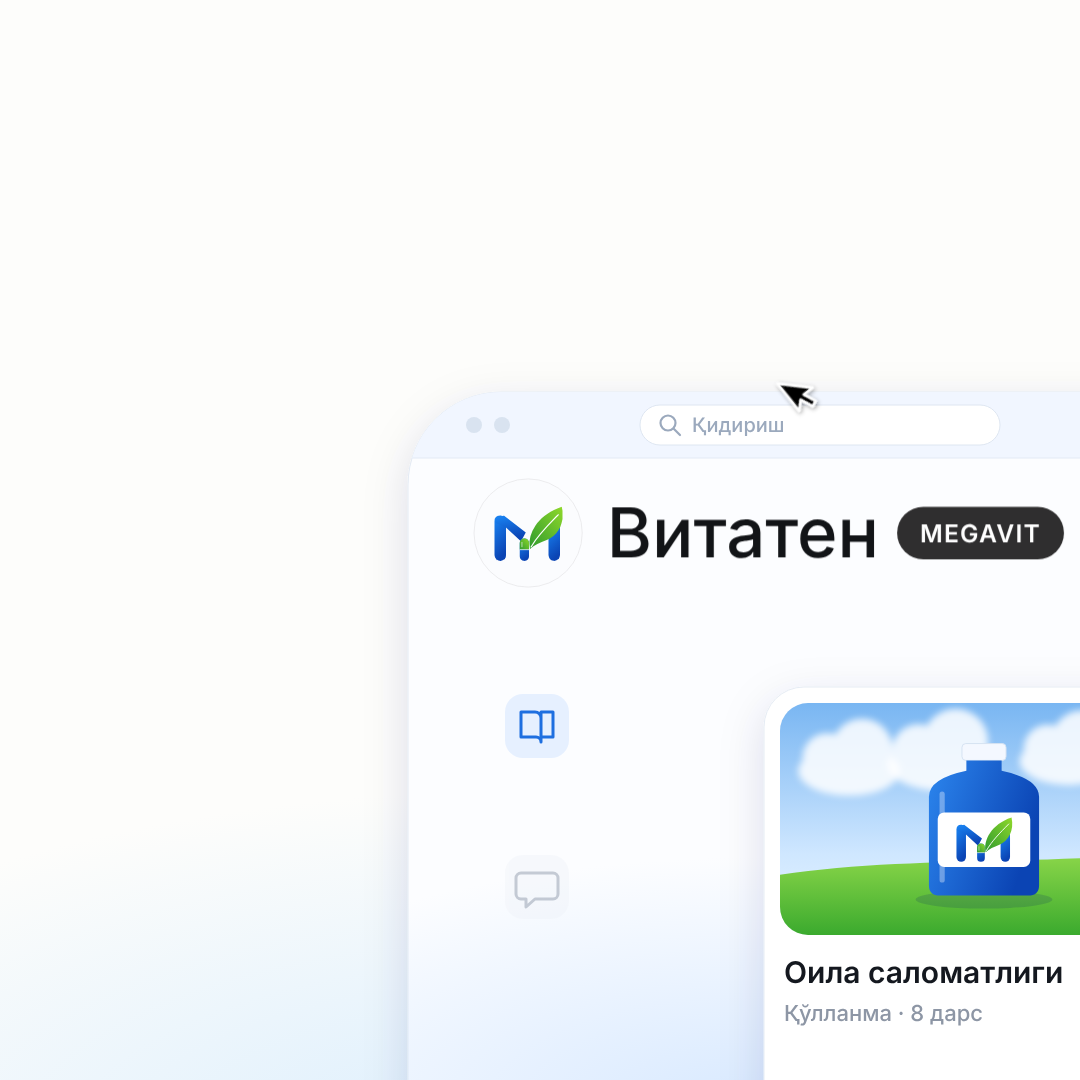
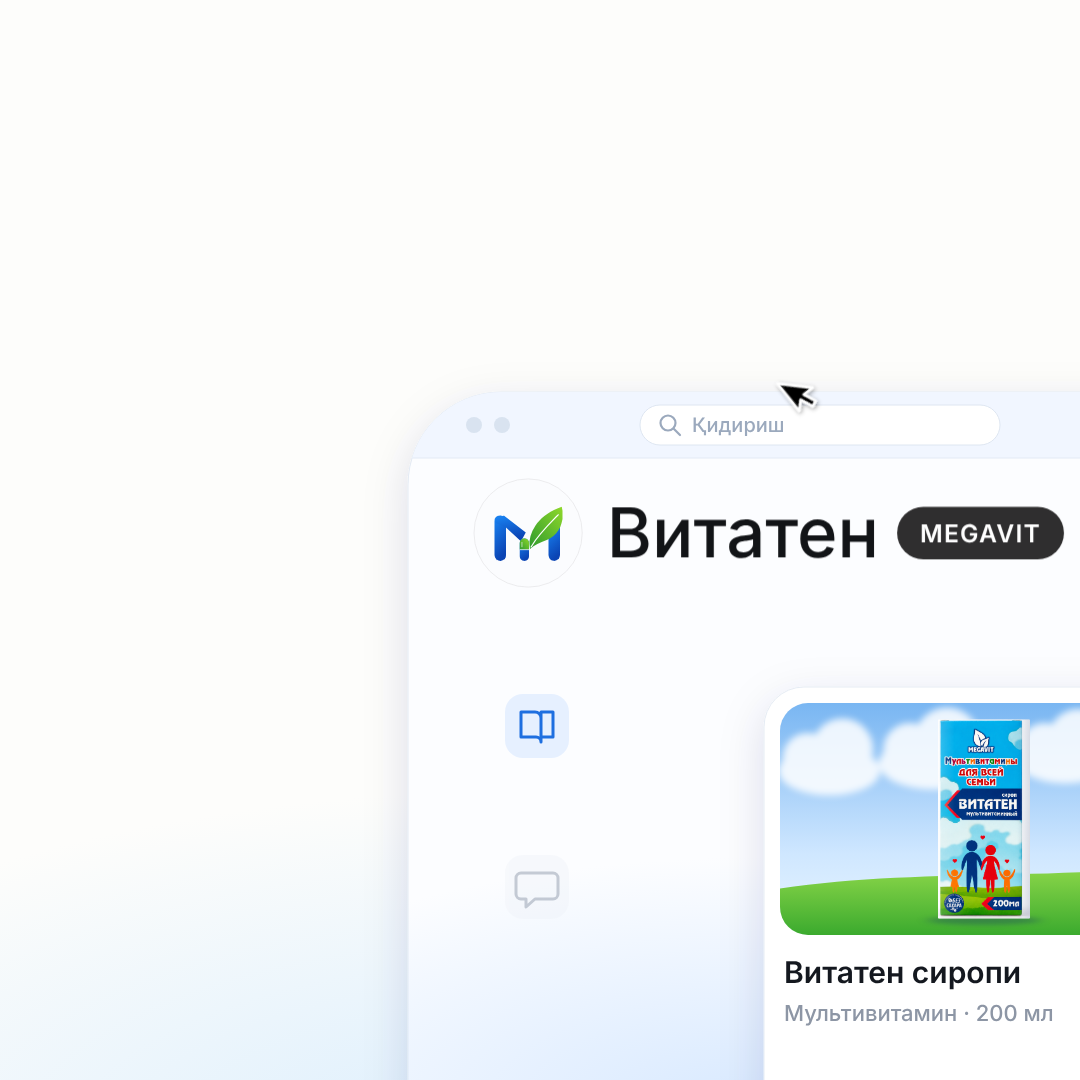
Feature the real Vitaten box in the hub card, rising card and hero hold; add tagline to end card
Claude-Session: https://claude.ai/code/session_01Ek9HUE8cXQas236DtqeRgc

Changed region(s): [[0.7028, 0.6417, 1.0, 0.8556], [0.7333, 0.8861, 1.0, 0.9472], [0.9778, 0.6417, 1.0, 0.6722]]

diff --git a/vitaten/film.js b/vitaten/film.js
@@ -6,17 +6,18 @@ const T = {
   name: 'Витатен',
   pill: 'MEGAVIT',
   search: 'Қидириш',
-  courseTitle: 'Оила саломатлиги',
-  courseSub: 'Қўлланма · 8 дарс',
+  courseTitle: 'Витатен сиропи',
+  courseSub: 'Мультивитамин · 200 мл',
   prompt: 'Болам учун витамин тавсия қил',
   date: 'Душ 22 июн  9:41',
-  crumb: 'Оила саломатлиги  ›  2-бўлим',
-  title: '2.1 Витатен — бутун оила учун',
+  crumb: 'Мегавит  ›  Сироплар',
+  title: 'Витатен — бутун оила учун',
   bodyA: 'Витатен — шакарсиз мультивитаминли сироп. Болалар ва катталар учун кунлик витаминлар',
   key: 'бир қошиқда.',
-  bodyB: 'Кунига бир марта, овқатдан кейин. 3 ёшдан катта болалар ва катталар учун.',
+  bodyB: 'Шакарсиз, 200 мл. Кунига бир марта, овқатдан кейин — болалар ва катталар учун.',
   cardCap: 'Витатен сиропи',
-  cardSub: 'Шакарсиз · 200 мл · бутун оила учун',
+  cardSub: 'Мультивитаминли · шакарсиз · 200 мл',
+  tagline: 'мультивитаминли сироп',
   c1: 'Иммунитет', c1pill: 'Витамин C',
   c2: 'Энергия', c2pill: 'Витамин B',
   site: 'aksonmegavit.uz',
@@ -157,20 +158,24 @@ const txt = (x, y, s, wt, size, fill, extra = '') => `<text x="${n2(x)}" y="${n2
 function cloud(cx, cy, s, op) {
   return `<g opacity="${op}"><ellipse cx="${cx}" cy="${cy}" rx="${70 * s}" ry="${34 * s}" fill="#fff"/><circle cx="${cx - 30 * s}" cy="${cy - 18 * s}" r="${34 * s}" fill="#fff"/><circle cx="${cx + 18 * s}" cy="${cy - 30 * s}" r="${42 * s}" fill="#fff"/></g>`;
 }
-// family/vitamin art: sky, clouds, hill, a glass syrup bottle with the mark on a blank label
-function artVitaten(x, y, w, h) {
+// the real Vitaten box (photo, 579x1254), standing at bottom-centre bx,by with height h
+const BOX_AR = 579 / 1254;
+function box(bx, by, h, shadow = true) {
+  const w = h * BOX_AR, x = bx - w / 2, y = by - h;
+  return `${shadow ? `<g ${blur(h * 0.03, h * 0.012)}><ellipse cx="${n2(bx)}" cy="${n2(by + h * 0.008)}" rx="${n2(w * 0.62)}" ry="${n2(h * 0.022)}" fill="#0B2A66" opacity=".32"/></g>` : ''}
+<g ${clip(`<rect x="${n2(x)}" y="${n2(y)}" width="${n2(w)}" height="${n2(h)}" rx="${n2(h * 0.006)}"/>`)}>
+<image href="box.png" x="${n2(x)}" y="${n2(y)}" width="${n2(w)}" height="${n2(h)}" preserveAspectRatio="none"/>
+<rect x="${n2(x)}" y="${n2(y)}" width="${n2(w)}" height="${n2(h)}" fill="${grad([[0, '#FFFFFF', 0.22], [0.18, '#FFFFFF', 0], [0.86, '#0B2A66', 0], [1, '#0B2A66', 0.16]], 0, 0, 1, 0)}"/>
+</g>`;
+}
+// product hero art: sky, clouds, hill and the box standing on it
+function artBox(x, y, w, h) {
   const s = w / 627;
-  const clouds = [0, 1, 2, 3].map(i => cloud(x + w * (0.12 + 0.27 * i + 0.06 * hash(i)), y + h * (0.16 + 0.14 * hash(i + 9)), s * (0.8 + 0.5 * hash(i + 3)), 0.85)).join('');
-  const bx = x + w * 0.5, by = y + h * 0.27, bw = w * 0.27, bh = h * 0.56;
+  const clouds = [0, 1, 2, 3].map(i => cloud(x + w * (0.08 + 0.29 * i + 0.05 * hash(i)), y + h * (0.14 + 0.16 * hash(i + 9)), s * (0.8 + 0.5 * hash(i + 3)), 0.85)).join('');
   return `<rect x="${x}" y="${y}" width="${w}" height="${h}" fill="${grad([[0, '#79B6F2'], [0.65, '#CFE7FF'], [1, '#E9F5FF']])}"/>
 <g ${blur(6 * s)}>${clouds}</g>
-<path d="M${x},${y + h * 0.74} C${x + w * 0.3},${y + h * 0.66} ${x + w * 0.62},${y + h * 0.7} ${x + w},${y + h * 0.64} L${x + w},${y + h} L${x},${y + h} Z" fill="${grad([[0, '#8ED84A'], [1, '#3BAA2E']])}"/>
-<ellipse cx="${bx}" cy="${by + bh + 6 * s}" rx="${bw * 0.62}" ry="${14 * s}" fill="#0B2A66" opacity=".18"/>
-<rect x="${bx - bw * 0.2}" y="${by - bh * 0.17}" width="${bw * 0.4}" height="${bh * 0.13}" rx="${6 * s}" fill="#F4F8FF" stroke="#D5E2F2" stroke-width="${1.5 * s}"/>
-<path d="M${bx - bw * 0.16},${by - bh * 0.04} L${bx + bw * 0.16},${by - bh * 0.04} L${bx + bw * 0.16},${by + bh * 0.04} Q${bx + bw * 0.5},${by + bh * 0.1} ${bx + bw * 0.5},${by + bh * 0.24} L${bx + bw * 0.5},${by + bh * 0.92} Q${bx + bw * 0.5},${by + bh} ${bx + bw * 0.4},${by + bh} L${bx - bw * 0.4},${by + bh} Q${bx - bw * 0.5},${by + bh} ${bx - bw * 0.5},${by + bh * 0.92} L${bx - bw * 0.5},${by + bh * 0.24} Q${bx - bw * 0.5},${by + bh * 0.1} ${bx - bw * 0.16},${by + bh * 0.04} Z" fill="${grad([[0, '#2C86EE'], [1, '#0B44B4']], 0, 0, 1, 0.4)}"/>
-<rect x="${bx - bw * 0.42}" y="${by + bh * 0.36}" width="${bw * 0.84}" height="${bh * 0.42}" rx="${10 * s}" fill="#FFFFFF"/>
-${mark(bx, by + bh * 0.57, bw * 0.5)}
-<path d="M${bx - bw * 0.38},${by + bh * 0.22} L${bx - bw * 0.38},${by + bh * 0.88}" stroke="#fff" stroke-opacity=".35" stroke-width="${8 * s}" stroke-linecap="round"/>`;
+<path d="M${x},${y + h * 0.8} C${x + w * 0.3},${y + h * 0.72} ${x + w * 0.62},${y + h * 0.76} ${x + w},${y + h * 0.7} L${x + w},${y + h} L${x},${y + h} Z" fill="${grad([[0, '#8ED84A'], [1, '#3BAA2E']])}"/>
+${box(x + w * 0.5, y + h * 0.93, h * 0.86)}`;
 }
 function artImmun(x, y, w, h) {
   const balls = [[0.2, 0.3, 0.2, C.lblue], [0.72, 0.26, 0.26, '#FFFFFF'], [0.52, 0.62, 0.17, C.lgreen], [0.88, 0.7, 0.12, C.lblue], [0.1, 0.78, 0.13, '#9CD3FF'], [0.38, 0.12, 0.08, C.lgreen]];
@@ -261,7 +266,7 @@ ${txt(692, 445, T.search, 500, 20, '#9BA9BD')}
 <g opacity=".38"><rect x="505" y="868" width="64" height="64" rx="18" fill="#EEF2F8"/>
 <path d="M521,886 h32 a5,5 0 0 1 5,5 v16 a5,5 0 0 1 -5,5 h-18 l-9,8 v-8 h-5 a5,5 0 0 1 -5,-5 v-16 a5,5 0 0 1 5,-5 z" fill="none" stroke="#6C7A90" stroke-width="3" stroke-linejoin="round"/></g>
 <rect x="764" y="700" width="440" height="560" rx="40" fill="#FFFFFF" stroke="#E6ECF4" filter="url(#softShadow)"/>
-<g ${clip(`<rect x="780" y="716" width="408" height="232" rx="28"/>`)}>${artVitaten(780, 716, 408, 232)}</g>
+<g ${clip(`<rect x="780" y="716" width="408" height="232" rx="28"/>`)}>${artBox(780, 716, 408, 232)}</g>
 ${txt(784, 996, T.courseTitle, 600, 30, '#14181F')}
 ${txt(784, 1034, T.courseSub, 500, 22, '#8D96A5')}
 </g></g>`;
@@ -502,7 +507,7 @@ const S5 = {
     const card = `<g transform="translate(${cx},${n2(cyc)}) scale(${n2(sc)}) translate(${-cx},${n2(-cyc)})">
 <rect x="203" y="${n2(cardTop)}" width="675" height="1100" rx="88" fill="#FFFFFF" filter="url(#softShadow)"/>
 <rect x="504" y="${n2(cardTop + 15)}" width="72" height="9" rx="4.5" fill="#E2E5EA"/>
-<g ${clip(`<rect x="227" y="${n2(top)}" width="627" height="536" rx="64"/>`)}>${artVitaten(227, top, 627, 536)}</g>
+<g ${clip(`<rect x="227" y="${n2(top)}" width="627" height="536" rx="64"/>`)}>${artBox(227, top, 627, 536)}</g>
 ${txt(251, top + 536 + 62, T.cardCap, 600, 38, '#0E0F11')}
 ${txt(251, top + 536 + 100, T.cardSub, 500, 23, '#9AA0AA')}
 </g>`;
@@ -558,7 +563,7 @@ const S6 = {
 };
 
 // ======================================================================
-// S7 f245–300  lone logo disc
+// S7 f245–300  product hero: the Vitaten box (held still f269–287)
 // ======================================================================
 const DT7 = mono([[245, 569], [250, 491], [255, 468], [262, 459], [269, 456]]);
 const S7 = {
@@ -567,9 +572,10 @@ const S7 = {
     const d = f <= 287 ? 168 : lerp(168, 123, E.in(clamp((f - 287) / 13)));
     const cy = DT7(f) + 84, vy = deriv(DT7, f);
     const smear = f < 246 ? 9 : 0;
-    const disc = `<g transform="scale(${n2(d / 168)})"><circle r="84" fill="#F6F6F6" stroke="#ECECEE"/>${mark(0, 1, 104)}</g>`;
+    const hero = `<g transform="scale(${n2(d / 168)})"><circle r="300" fill="${rgrad([[0, '#E3EFFB'], [0.7, '#EDF4FB'], [1, '#F7FAFD']])}" stroke="#E8EEF5"/>${box(0, 318, 636)}</g>`;
     return `<rect width="1080" height="1080" fill="${C.page}"/>
-${dirBlur(disc, 540, cy, 90, Math.min(22, Math.abs(vy) * 0.22) + smear)}`;
+<ellipse cx="540" cy="1150" rx="900" ry="360" fill="${rgrad([[0, C.floor], [1, C.floor, 0]])}"/>
+${dirBlur(hero, 540, cy, 90, Math.min(22, Math.abs(vy) * 0.22) + smear)}`;
   },
 };
 
@@ -597,7 +603,7 @@ const S8 = {
     DEFS.push(`<filter id="${glowId}" filterUnits="userSpaceOnUse" x="-600" y="-200" width="2280" height="1480"><feGaussianBlur in="SourceGraphic" stdDeviation="${n2(fs * 0.05)}" result="a"/><feGaussianBlur in="SourceGraphic" stdDeviation="${n2(fs * 0.4)}" result="b"/><feComponentTransfer in="b" result="b2"><feFuncA type="linear" slope=".55"/></feComponentTransfer><feComponentTransfer in="a" result="a2"><feFuncA type="linear" slope=".75"/></feComponentTransfer><feMerge><feMergeNode in="b2"/><feMergeNode in="a2"/><feMergeNode in="SourceGraphic"/></feMerge></filter>`);
     const siteOp = clamp((f - 314) / 10), siteRise = kf(f, [[314, 16], [328, 0]], E.expo);
     const sfs = fs * 0.2;
-    const site = siteOp > 0 ? `<g opacity="${n2(siteOp)}" ${blur(kf(f, [[314, 4], [324, 0]], E.expo))}><text x="540" y="${n2(540 + fs * 0.98 + siteRise)}" text-anchor="middle" font-weight="500" font-size="${n2(sfs)}" letter-spacing="${n2(sfs * 0.06)}" fill="#A6A6AE">${esc(T.site)}</text></g>` : '';
+    const site = siteOp > 0 ? `<g opacity="${n2(siteOp)}" ${blur(kf(f, [[314, 4], [324, 0]], E.expo))}><text x="540" y="${n2(540 + fs * 0.84 + siteRise)}" text-anchor="middle" font-weight="500" font-size="${n2(fs * 0.22)}" fill="#D6D6DC">${esc(T.tagline)}</text><text x="540" y="${n2(540 + fs * 1.3 + siteRise * 1.4)}" text-anchor="middle" font-weight="500" font-size="${n2(sfs)}" letter-spacing="${n2(sfs * 0.06)}" fill="#A6A6AE">${esc(T.site)}</text></g>` : '';
     return `<rect width="1080" height="1080" fill="${rgrad([[0, '#2A2A2C'], [0.45, '#111113'], [1, '#020204']], 540, 540, 765, 540, 540, 'userSpaceOnUse')}"/>
 <g ${blur(Math.min(26, Math.abs(dw) * 0.035) + end, end)}>
 ${streaks}
@@ -619,6 +625,7 @@ window.seek = function (f) {
 window.ready = (async () => {
   await Promise.all([400, 500, 600, 700].map(w => document.fonts.load(`${w} 40px IN`, 'Витатен aksonmegavit')));
   await document.fonts.ready;
+  await new Promise(r => { const im = new Image(); im.onload = im.onerror = r; im.src = 'box.png'; });
   layout();
   const q = new URLSearchParams(location.search).get('f');
   window.seek(q ? parseFloat(q) : 40);
